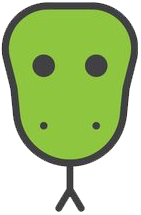
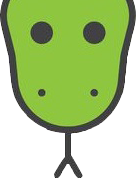
mudanca no visual da cabeca da cobra

diff --git a/script.js b/script.js
@@ -92,7 +92,7 @@ function draw() {
     var img = document.getElementById('food')
     var headD = document.getElementById('headD')
     context.drawImage(img, food[0], food[1], 2, 2)
-    context.fillStyle = 'green'
+    context.fillStyle = 'rgb(142, 198, 63)'
 
     for(i = 0; i < snake.length; i++) {
         if (i == 0) {
